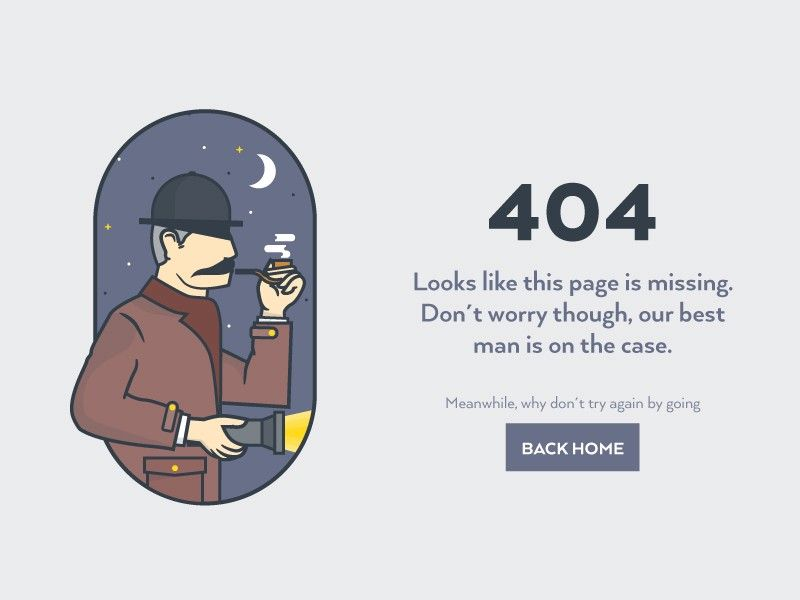
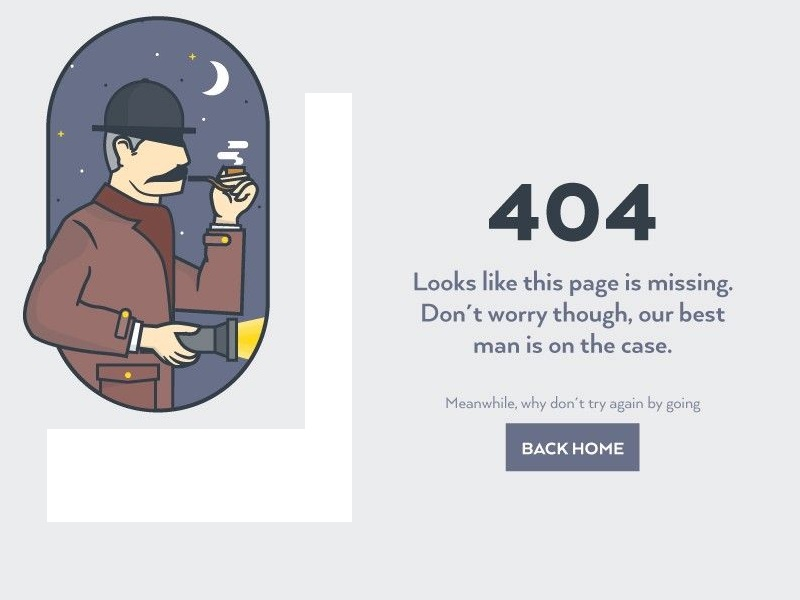
nuotrau

Changed region(s): [[0.0312, 0.0, 0.4062, 0.87]]

diff --git a/index.html b/index.html
@@ -6,9 +6,9 @@
     <meta name="viewport" content="width=device-width, initial-scale=1.0">
     <title>Serloko puslapis</title>
 </head>
-<body>
+<body style="background-color: rgb(235, 237, 238);">
     <main>
-        <img src="#" alt="Nuotrauka">
+        <img src="serlo.png" alt="Nuotrauka">
         <div>
             <h1>404</h1>
             <p>Look like this page is missing Don't worry thought, our best is on the cases  </p>
